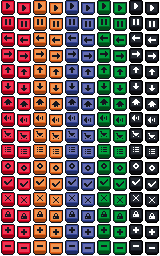
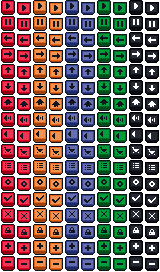
SFX Volume control
Volume control for SFX implemented. Mute button linked to SFX, but graphic not functional

diff --git a/My project (1)/Assets/Scripts/MainMenu/SoundFXVolumeControl.cs b/My project (1)/Assets/Scripts/MainMenu/SoundFXVolumeControl.cs
@@ -1,0 +1,89 @@
+using System.Collections;
+using System.Collections.Generic;
+using UnityEngine;
+using UnityEngine.Audio;
+using UnityEngine.UI;
+using UnityEngine.SceneManagement;
+
+public class SoundFXVolumeControl : MonoBehaviour
+{
+    public AudioMixer SFXMixer;
+    public Slider SFXVolumeSlider;
+
+
+    public AudioSource SFXSource;
+
+    private void OnEnable()
+    {
+        SceneManager.sceneLoaded += OnSceneLoaded;
+    }
+
+    private void OnDisable()
+    {
+        SceneManager.sceneLoaded -= OnSceneLoaded;
+    }
+    // Start is called before the first frame update
+    void Start()
+    {
+                 if(SFXVolumeSlider != null)
+         {
+            SFXSource.volume = SFXVolumeSlider.value;
+            SFXVolumeSlider.onValueChanged.AddListener(SetVolume);
+
+         }
+    }
+
+    private void OnSceneLoaded(Scene scene, LoadSceneMode mode)
+{
+    // Find the active Canvas first
+    GameObject canvas = GameObject.Find("Canvas");
+
+    if (canvas != null)
+    {
+        // Find the Settings Panel (inactive) inside the Canvas
+        Transform settingsPanel = canvas.transform.Find("Setting Panel");
+
+        if (settingsPanel != null)
+        {
+            // Now search for the MusicSlider specifically within the Settings Panel
+            SFXVolumeSlider = settingsPanel.Find("SFXSlider")?.GetComponent<Slider>();
+
+            if (SFXVolumeSlider != null)
+            {
+                Debug.Log("SFXSlider found: " + SFXVolumeSlider.name);
+
+                // Remove previous listeners to avoid duplication
+                SFXVolumeSlider.onValueChanged.RemoveAllListeners();
+
+                // Set the music volume to the current slider value
+                SFXSource.volume = SFXVolumeSlider.value;
+
+                // Add the new listener for volume changes
+                SFXVolumeSlider.onValueChanged.AddListener(SetVolume);
+            }
+            else
+            {
+                Debug.LogError("SFXSlider not found in Setting Panel.");
+            }
+        }
+        else
+        {
+            Debug.LogError("Setting Panel not found in Canvas.");
+        }
+    }
+    else
+    {
+        Debug.LogError("Canvas not found in the scene.");
+    }
+}
+
+    public void SetVolume(float volume) {
+        SFXSource.volume = volume;
+    }
+    
+    // Update is called once per frame
+    void Update()
+    {
+        
+    }
+}
